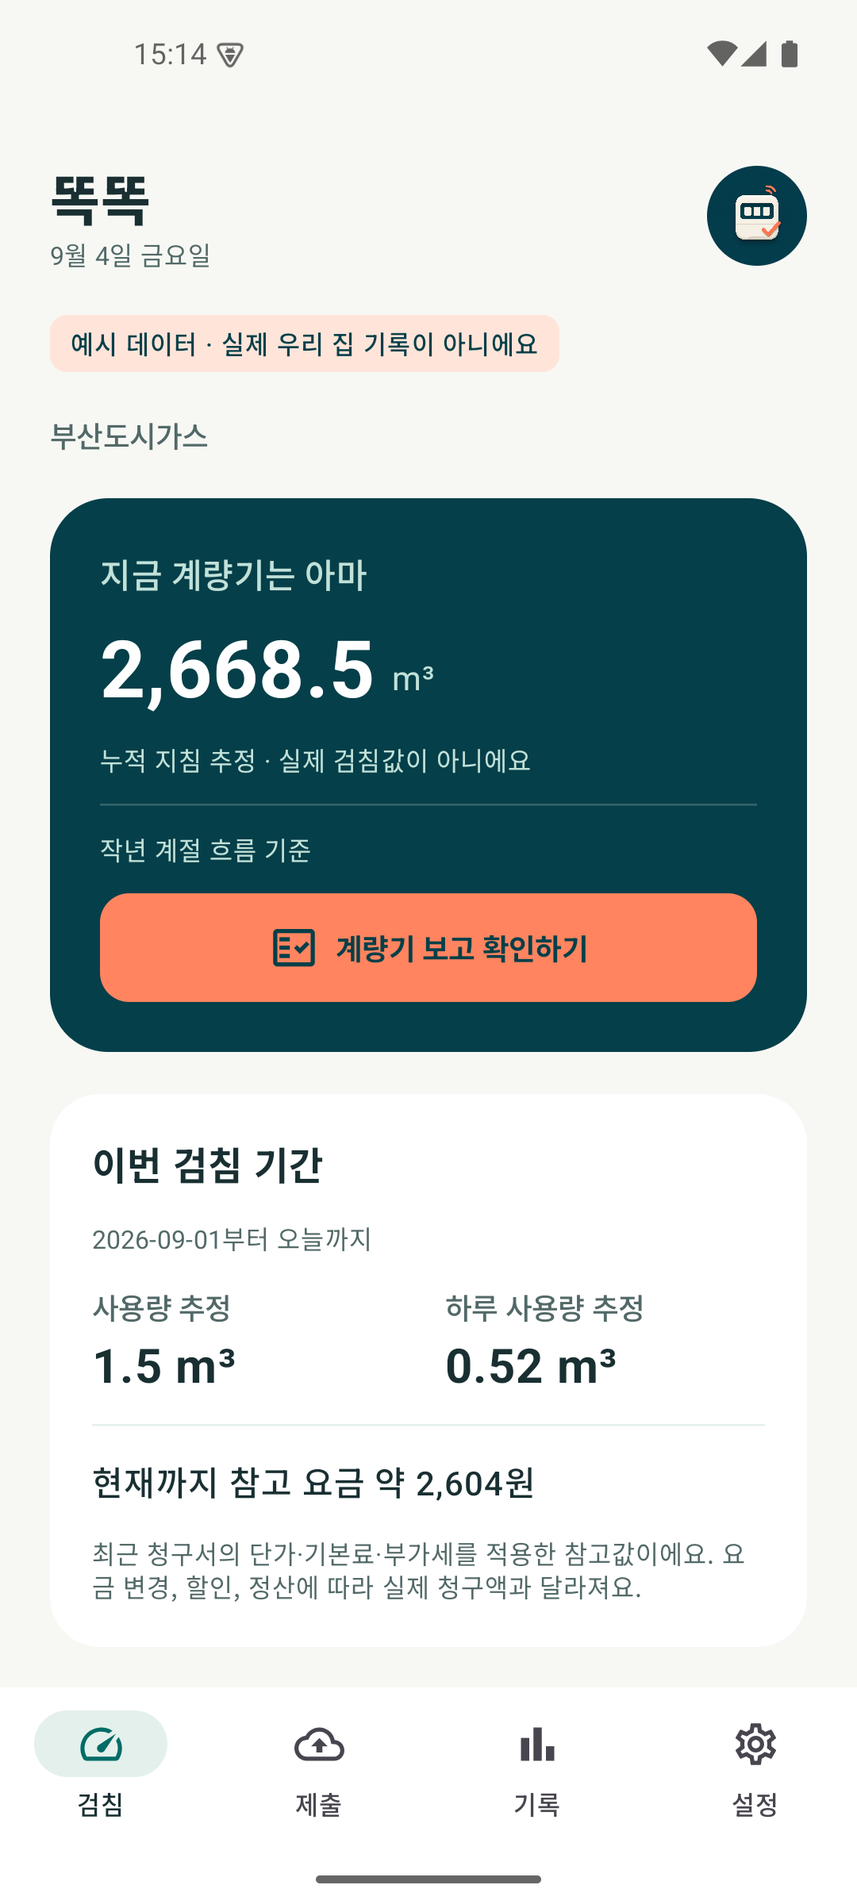
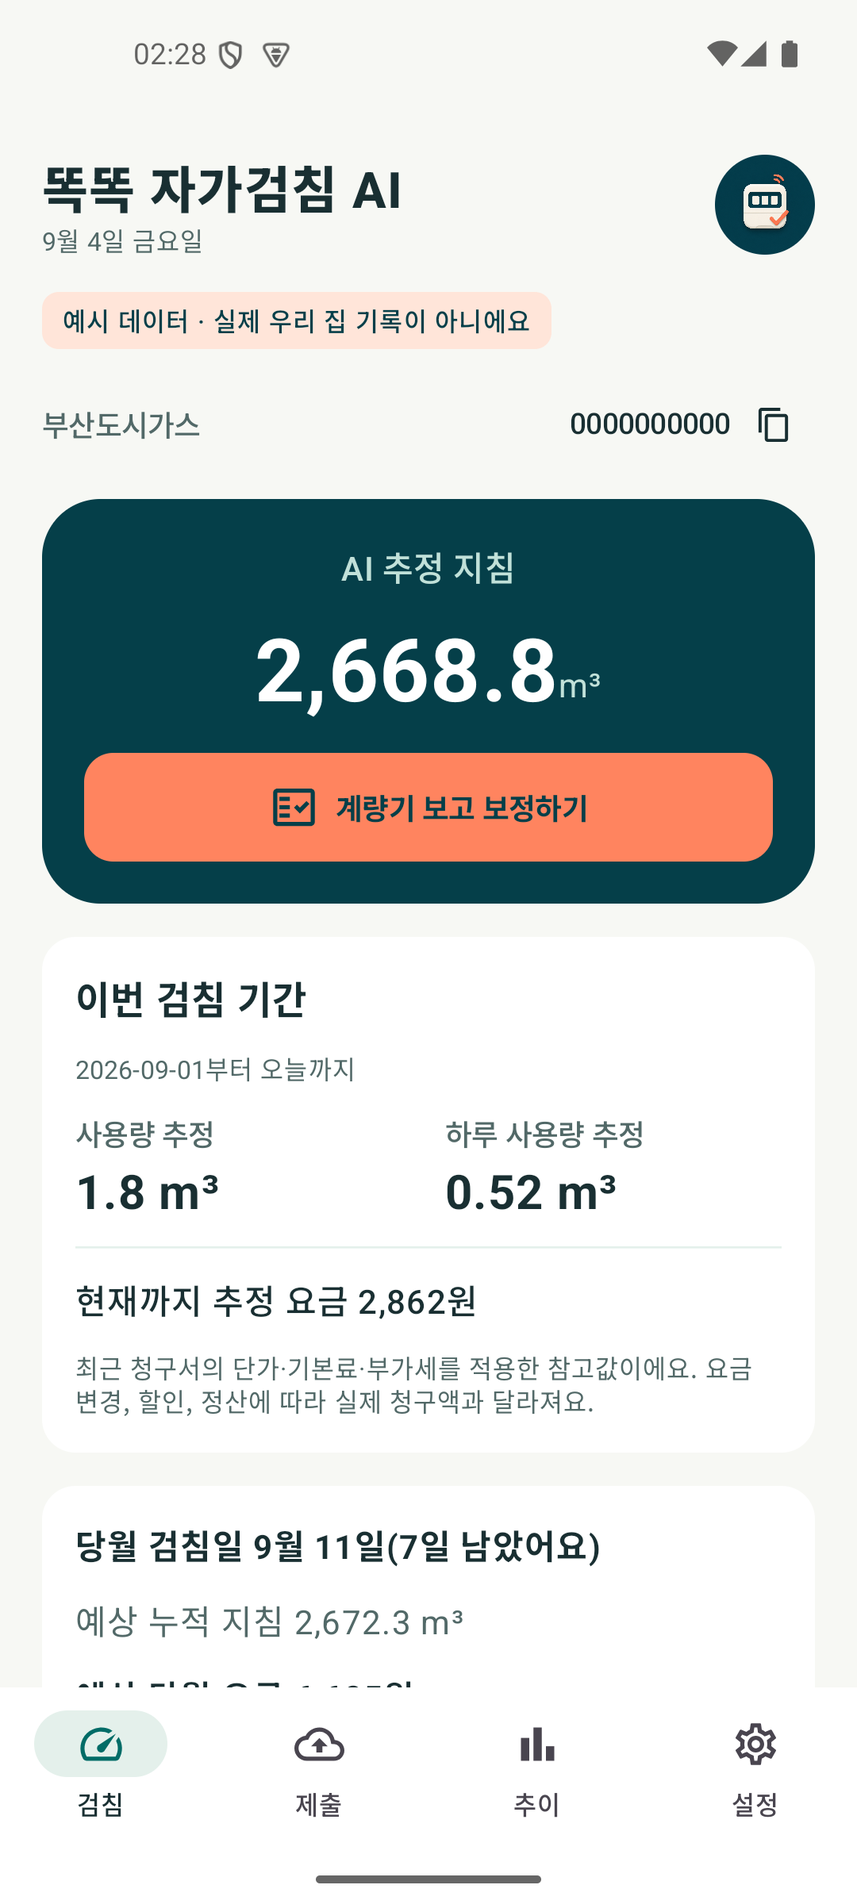
Finalize Gasapp safety checks and refresh 0.3.0 screenshots

diff --git a/app/src/main/java/dev/mahlernim/gasselfmeter/GasappBridge.kt b/app/src/main/java/dev/mahlernim/gasselfmeter/GasappBridge.kt
@@ -54,7 +54,30 @@ object GasappBridge {
         return data.copy(profile = data.profile.copy(providerId = providerId, contract = connection.account.key,
             customerNumber = connection.account.customer.ifBlank { connection.account.contract }, meter = meter,
             plannedDate = target.end, syncTime = now), periods = periods, ready = true, credentials = null,
-            cachedSelfRead = null, gasappConnection = connection, cachedGasappTarget = target, gasappBills = bills)
+            cachedSelfRead = null, gasappConnection = connection, cachedGasappTarget = target, gasappBills = bills, gasappMeterChangeObservedAt = replacementObservedAt(data, target, now))
+    }
+
+    fun replacementObservedAt(data: AppData, target: GasappTarget, now: Long): Long? {
+        val old = data.cachedGasappTarget
+        val changedMeter = target.meter != null && target.meter != data.profile.meter
+        val newlyFlagged = target.meterChanged && (old?.meterChanged != true || old.meter != target.meter)
+        return if (changedMeter || newlyFlagged) now else data.gasappMeterChangeObservedAt
+    }
+
+    private fun reconcileRecord(api: GasappApi, initial: AppData): SubmissionRecord? {
+        val expected = initial.cachedGasappTarget ?: return null
+        val record = initial.submissions.lastOrNull { it.cycle == expected.cycle && it.status in setOf("pending", "uncertain") } ?: return null
+        val connection = initial.gasappConnection ?: return null
+        if (expected.account.key != connection.account.key || expected.meter != initial.profile.meter) return null
+        val result = api.reconcile(connection.session, expected, record.value)
+        return record.takeIf { result.status == GasappSubmitStatus.CONFIRMED }
+    }
+
+    fun applyReconciliation(latest: AppData, initial: AppData, record: SubmissionRecord?): AppData {
+        if (record == null || !sameAccount(initial, latest)) return latest
+        val current = latest.submissions.lastOrNull { it.cycle == record.cycle }
+        if (current != record || current.status !in setOf("pending", "uncertain")) return latest
+        return latest.copy(submissions = latest.submissions.map { if (it == current) it.copy(status = "confirmed", detail = "공급사에서 제출 완료를 확인했어요.") else it })
     }
 
     fun refresh(context: Context, force: Boolean = false): AppData = SubmissionGate.lock.withLock {
@@ -64,7 +87,8 @@ object GasappBridge {
         if (!initial.ready || (!force && initial.profile.syncTime?.let { System.currentTimeMillis() - it < 86_400_000L } == true)) return@withLock initial
         GasappApi(connection.session.deviceId).use { api ->
             val snapshot = api.snapshot(connection.session, connection.account)
-            store.update { latest -> if (sameAccount(initial, latest)) merge(latest, connection, snapshot) else latest }.also {
+            val confirmed = reconcileRecord(api, initial)
+            store.update { latest -> if (sameAccount(initial, latest)) merge(applyReconciliation(latest, initial, confirmed), connection, snapshot) else latest }.also {
                 if (it.cachedGasappTarget?.submitted == true) context.getSystemService(android.app.NotificationManager::class.java).cancel(3)
             }
         }
@@ -76,7 +100,11 @@ object GasappBridge {
         val connection = initial.gasappConnection ?: error("가스앱에 다시 연결해 주세요.")
         GasappApi(connection.session.deviceId).use { api ->
             val target = api.target(connection.session, connection.account)
-            store.update { latest -> if (sameAccount(initial, latest)) latest.copy(cachedGasappTarget = target) else latest }
+            val confirmed = reconcileRecord(api, initial)
+            store.update { latest -> if (sameAccount(initial, latest)) applyReconciliation(latest, initial, confirmed).copy(
+                cachedGasappTarget = target, gasappMeterChangeObservedAt = replacementObservedAt(latest, target, System.currentTimeMillis())) else latest }.also {
+                if (it.cachedGasappTarget?.submitted == true) context.getSystemService(android.app.NotificationManager::class.java).cancel(3)
+            }
         }
     }
 
@@ -88,7 +116,7 @@ object GasappBridge {
             val target = api.target(connection.session, connection.account)
             val current = store.update { latest ->
                 check(sameAccount(initial, latest)) { "연결 계정이 변경됐어요. 다시 확인해 주세요." }
-                latest.copy(cachedGasappTarget = target)
+                latest.copy(cachedGasappTarget = target, gasappMeterChangeObservedAt = replacementObservedAt(latest, target, System.currentTimeMillis()))
             }
             val decision = GasappSubmissionPolicy.decide(current, target, automatic = automatic)
             require(decision.allowed && decision.value != null) { decision.reason }
@@ -134,7 +162,7 @@ object GasappSubmissionPolicy {
         if (automatic && !data.submissionSettings.automatic) return deny("자가검침 자동제출이 꺼져 있어요.")
         if (target == null) return deny("검침 기간을 먼저 확인해 주세요.")
         if (target.account.key != connection.account.key || data.profile.contract != target.account.key) return deny("계약 정보가 달라요. 다시 연결해 주세요.")
-        if (target.meter == null || target.meter != data.profile.meter || target.meterChanged) return deny("계량기 정보를 갱신하고 실제 숫자를 다시 확인해 주세요.")
+        if (target.meter == null || target.meter != data.profile.meter) return deny("계량기 정보를 갱신하고 실제 숫자를 다시 확인해 주세요.")
         if (!target.registered) return deny("자가검침 서비스 신청이 필요해요.")
         if (target.needsChannelChange) return deny("가스앱 검침으로 변경이 필요해요.")
         if (target.submitted) return deny("이번 검침값은 이미 제출했어요.")
@@ -146,6 +174,8 @@ object GasappSubmissionPolicy {
         if (prior?.status in setOf("pending", "uncertain", "confirmed")) return deny("이전 전송 결과를 공급사에서 확인해 주세요.")
         val observation = data.observations.lastOrNull { it.meter == data.profile.meter && it.time <= time }
             ?: return deny("실제 계량기 숫자를 먼저 확인해 주세요.")
+        if (target.meterChanged && (data.gasappMeterChangeObservedAt == null || observation.time <= data.gasappMeterChangeObservedAt))
+            return deny("교체된 계량기의 실제 숫자를 다시 확인해 주세요.")
         val age = ((time - observation.time) / 86_400_000L).coerceAtLeast(0)
         if (automatic && data.submissionSettings.requireRecentCheck && age > data.submissionSettings.recentDays) return deny("보정한 지 오래됐어요. 실제 숫자를 다시 확인해 주세요.")
         val estimate = Estimator.estimate(data, time).reading ?: return deny("제출할 지침을 계산할 수 없어요.")

diff --git a/app/src/test/java/dev/mahlernim/gasselfmeter/GasappIntegrationTest.kt b/app/src/test/java/dev/mahlernim/gasselfmeter/GasappIntegrationTest.kt
@@ -56,4 +56,24 @@ class GasappIntegrationTest {
         val pending = SubmissionRecord(target.cycle, target.start!!, target.end!!, 113.0, time, "uncertain", "")
         assertFalse(GasappSubmissionPolicy.decide(calibrated.copy(submissions = listOf(pending)), target, time, automatic = false).allowed)
     }
+
+    @Test fun replacementRequiresCalibrationAfterFirstObservedChangeAndDoesNotResetOnRefresh() {
+        val time = dayStart(LocalDate.of(2026, 9, 7))
+        val changed = target.copy(meterChanged = true)
+        val base = data().copy(cachedGasappTarget = changed, gasappMeterChangeObservedAt = time - 1000,
+            observations = listOf(Observation(time - 86_400_000, 111.0, meter), Observation(time, 113.0, meter)))
+        assertEquals(time - 1000, GasappBridge.replacementObservedAt(base, changed, time + 1000))
+        assertTrue(GasappSubmissionPolicy.decide(base, changed, time, automatic = false).allowed)
+        assertFalse(GasappSubmissionPolicy.decide(base.copy(gasappMeterChangeObservedAt = time), changed, time, automatic = false).allowed)
+    }
+
+    @Test fun reconciliationCannotResurrectRemovedOrReplacedAttempt() {
+        val record = SubmissionRecord(target.cycle, target.start!!, target.end!!, 113.0, 1234L, "uncertain", "")
+        val initial = data().copy(submissions = listOf(record))
+        assertEquals("confirmed", GasappBridge.applyReconciliation(initial, initial, record).submissions.single().status)
+        val removed = initial.copy(submissions = emptyList())
+        assertTrue(GasappBridge.applyReconciliation(removed, initial, record).submissions.isEmpty())
+        val reset = AppData()
+        assertEquals(reset, GasappBridge.applyReconciliation(reset, initial, record))
+    }
 }

diff --git a/app/src/androidTest/java/dev/mahlernim/gasselfmeter/AppFlowTest.kt b/app/src/androidTest/java/dev/mahlernim/gasselfmeter/AppFlowTest.kt
@@ -41,7 +41,7 @@ class AppFlowTest {
             shot("03-submission")
             compose.onAllNodes(isToggleable())[0].performScrollTo().performClick()
             compose.onNodeWithText("7일 이내").performScrollTo().assertIsDisplayed()
-            compose.onNodeWithText("분").performScrollTo().assertIsDisplayed()
+            compose.onNodeWithText("한국 시간 기준 · 공급사에서 제출 완료를 확인하면 알림을 멈춰요.").performScrollTo().assertIsDisplayed()
             shot("07-submission-alerts")
             compose.onNodeWithText("검침", useUnmergedTree = true).performClick()
             compose.onNodeWithText("계량기 보고 보정하기").performClick()
@@ -70,10 +70,11 @@ class AppFlowTest {
             assertEquals(saved, SecureStore(context).read())
             compose.onNodeWithText("설정", useUnmergedTree = true).performClick()
             compose.onNodeWithText("앱 설정").assertIsDisplayed()
-            compose.onNodeWithText("3회").performScrollTo().performClick()
+            compose.onNodeWithText("3회").performScrollTo().assertIsDisplayed()
+            shot("05-settings")
+            compose.onNodeWithText("3회").performClick()
             compose.onNodeWithText("6회").performClick()
             compose.waitUntil(5000) { SecureStore(context).read().profile.reminderRepeatCount == 6 }
-            shot("05-settings")
             compose.onNodeWithText("업데이트 확인").performScrollTo().assertIsDisplayed()
             compose.onNodeWithText("Google Play에서 최신 버전을 확인해요").assertIsDisplayed()
             shot("06-settings-links")

diff --git a/app/src/main/java/dev/mahlernim/gasselfmeter/MainActivity.kt b/app/src/main/java/dev/mahlernim/gasselfmeter/MainActivity.kt
@@ -201,9 +201,13 @@ class MainActivity : ComponentActivity() {
         if (vm.calibrate(value)) calibration = null
     } }
     submitValue?.let { value ->
+        val provider = Providers.get(data.profile.providerId)
+        val valueText = decimalText(value, if (provider.gasapp) 0 else 1)
         AlertDialog(onDismissRequest = { submitValue = null }, title = { Text("검침값을 공급사에 입력할까요?") },
-            text = { Text("${Providers.get(data.profile.providerId).name}에 ${decimalText(value)} m³를 입력합니다. 전송 직전에 기간과 기존 제출 여부를 다시 확인하며, 결과가 불확실하면 자동으로 다시 보내지 않습니다.") },
-            confirmButton = { TextButton(onClick = { vm.submitReading(value); submitValue = null }) { Text("${decimalText(value)} m³ 입력") } },
+            text = { Text("${provider.name}에 $valueText m³를 입력합니다." +
+                (if (provider.gasapp) "\n\n가스앱은 소수점 아래를 제외한 정수 지침을 제출해요." else "") +
+                "\n\n전송 직전에 기간과 기존 제출 여부를 다시 확인하며, 결과가 불확실하면 자동으로 다시 보내지 않습니다.") },
+            confirmButton = { TextButton(onClick = { vm.submitReading(value); submitValue = null }) { Text("$valueText m³ 입력") } },
             dismissButton = { TextButton(onClick = { submitValue = null }) { Text("취소") } })
     }
     if (addHistory) HistoryDialog({ addHistory = false }) { start, end, value ->

diff --git a/app/src/androidTest/java/dev/mahlernim/gasselfmeter/ManualAndBackupFlowTest.kt b/app/src/androidTest/java/dev/mahlernim/gasselfmeter/ManualAndBackupFlowTest.kt
@@ -45,6 +45,10 @@ class ManualAndBackupFlowTest {
             compose.onNodeWithText("기록 내보내기").performScrollTo().performClick()
             compose.waitForIdle()
             device.waitForIdle()
+            val filename = "gas-test-${System.currentTimeMillis()}.json"
+            val filenameInput = device.wait(Until.findObject(By.res("android:id/title").clazz("android.widget.EditText")), 5000)
+            assertNotNull("System document picker filename field", filenameInput)
+            filenameInput.text = filename
             val save = device.wait(Until.findObject(By.res("android:id/button1")), 5000)
             device.dumpWindowHierarchy(java.io.File(context.filesDir, "picker.xml"))
             assertNotNull("System document picker Save button", save)
@@ -53,7 +57,6 @@ class ManualAndBackupFlowTest {
             compose.waitForIdle()
             scenario.onActivity { activity -> androidx.lifecycle.ViewModelProvider(activity)[GasViewModel::class.java].message = null }
             compose.onNodeWithText("백업 가져오기").performScrollTo().performClick()
-            val filename = "gas-self-meter-${today()}.json"
             val file = device.wait(Until.findObject(By.text(filename)), 5000)
             assertNotNull("Exported backup should appear in the system picker", file)
             file.click()

diff --git a/app/src/main/java/dev/mahlernim/gasselfmeter/Providers.kt b/app/src/main/java/dev/mahlernim/gasselfmeter/Providers.kt
@@ -38,6 +38,10 @@ object Providers {
         Provider("cncity", "CNCITY에너지", listOf("대전", "충남"), "https://www.cncityenergy.com/"),
         Provider("daesung", "대성에너지", listOf("대구", "경북"), "https://www.daesungenergy.com/"),
         Provider("haeyang", "해양에너지", listOf("광주", "전남"), "https://www.hyenergy.co.kr/"),
+        Provider("chambit", "참빛도시가스", listOf("강원", "충북"), "https://www.gasapp.co.kr/", automatic = true, gasapp = true, automaticSubmission = true),
+        Provider("mcenergy", "MC에너지", listOf("전남"), "https://www.gasapp.co.kr/", automatic = true, gasapp = true, automaticSubmission = true),
+        Provider("seohae", "미래엔서해에너지", listOf("충남"), "https://www.gasapp.co.kr/", automatic = true, gasapp = true, automaticSubmission = true),
+        Provider("daehwa", "대화도시가스", listOf("전남"), "https://www.gasapp.co.kr/", automatic = true, gasapp = true, automaticSubmission = true),
         Provider("other", "다른 공급사 / 직접 입력", listOf("전국"), "https://www.kogas.or.kr/site/koGas/1020408040000"),
     )
     val regions = listOf("부산", "서울", "경기", "인천", "울산", "경남", "대구", "경북", "대전", "세종", "충남", "충북", "광주", "전남", "전북", "강원", "제주")

diff --git a/app/src/main/java/dev/mahlernim/gasselfmeter/GasViewModel.kt b/app/src/main/java/dev/mahlernim/gasselfmeter/GasViewModel.kt
@@ -46,7 +46,8 @@ class GasViewModel(app: Application) : AndroidViewModel(app) {
             submissions = if (next.submissions == before.submissions) latest.submissions else next.submissions,
             cachedSelfRead = if (next.cachedSelfRead == before.cachedSelfRead) latest.cachedSelfRead else next.cachedSelfRead,
             gasappBills = if (next.gasappBills == before.gasappBills) latest.gasappBills else next.gasappBills,
-            cachedGasappTarget = if (next.cachedGasappTarget == before.cachedGasappTarget) latest.cachedGasappTarget else next.cachedGasappTarget)
+            cachedGasappTarget = if (next.cachedGasappTarget == before.cachedGasappTarget) latest.cachedGasappTarget else next.cachedGasappTarget,
+            gasappMeterChangeObservedAt = if (next.gasappMeterChangeObservedAt == before.gasappMeterChangeObservedAt) latest.gasappMeterChangeObservedAt else next.gasappMeterChangeObservedAt)
         }
         selfReadTarget = data.cachedSelfRead
     }

diff --git a/app/src/main/java/dev/mahlernim/gasselfmeter/GasappCodec.kt b/app/src/main/java/dev/mahlernim/gasselfmeter/GasappCodec.kt
@@ -25,6 +25,7 @@ object GasappCodec {
         json.put("gasappBills", JSONArray().apply { data.gasappBills.forEach { b -> put(JSONObject()
             .put("month", b.month).put("usage", b.usage).put("amount", b.amount).put("start", b.start).put("end", b.end)) } })
         if (!secrets) return
+        json.put("gasappMeterChangeObservedAt", data.gasappMeterChangeObservedAt)
         data.gasappConnection?.let { c -> json.put("gasappConnection", JSONObject().put("account", account(c.account))
             .put("token", c.session.token).put("member", c.session.member).put("deviceId", c.session.deviceId)) }
         data.cachedGasappTarget?.let { t -> json.put("cachedGasappTarget", JSONObject().put("account", account(t.account))

diff --git a/app/src/main/java/dev/mahlernim/gasselfmeter/Storage.kt b/app/src/main/java/dev/mahlernim/gasselfmeter/Storage.kt
@@ -124,7 +124,8 @@ object DataCodec {
                 t.optString("planned"), t.optString("vLdo"), t.optString("installation"))
         } else null
         return AppData(profile, periods, observations, credentials, settings, submissions, json.optBoolean("ready", true), cached,
-            GasappCodec.connection(json, allowCredentials), GasappCodec.target(json, allowCredentials), GasappCodec.bills(json))
+            GasappCodec.connection(json, allowCredentials), GasappCodec.target(json, allowCredentials), GasappCodec.bills(json),
+            if (allowCredentials && !json.isNull("gasappMeterChangeObservedAt")) json.getLong("gasappMeterChangeObservedAt") else null)
     }
 }
 

diff --git a/app/src/main/java/dev/mahlernim/gasselfmeter/Model.kt b/app/src/main/java/dev/mahlernim/gasselfmeter/Model.kt
@@ -63,6 +63,7 @@ data class AppData(
     val gasappConnection: GasappConnection? = null,
     val cachedGasappTarget: GasappTarget? = null,
     val gasappBills: List<GasappBill> = emptyList(),
+    val gasappMeterChangeObservedAt: Long? = null,
 )
 data class Estimate(val reading: Double?, val daily: Double?, val source: String, val ageDays: Long?, val anchorTime: Long?)
 data class SubmissionDecision(val allowed: Boolean, val value: Double?, val reason: String)

diff --git a/README.md b/README.md
@@ -64,12 +64,12 @@
 | --- | --- | --- | --- |
 | 부산도시가스 | 지원 | 지원 | 지원 |
 | 코원·충청·영남 구미·포항·전남·강원·전북에너지서비스 | 지원 | 지원 | 공급사별 검증 전까지 미지원 |
-| 서울도시가스, 예스코, 인천도시가스 등 가스앱 공급사 | 직접 입력 | 미지원 | 미지원 |
+| 서울·예스코·인천 등 가스앱 14개 공급사 | 본인인증 후 지원 | 지원 | 조건부 지원 |
 | 그 밖의 공급사 | 직접 입력 | 미지원 | 미지원 |
 
 목록에 없는 공급사는 `다른 공급사 / 직접 입력`으로 시작할 수 있습니다. 여기서 직접 입력은 청구서의 사용량을 앱에 손으로 기록한다는 뜻이며 공급사 제출 기능을 뜻하지 않습니다. 이 방식에서도 사용량 추정, 실측 기록과 주간 알림을 사용할 수 있습니다. 공급사 사이트가 변경되면 자동 연결 기능도 업데이트가 필요할 수 있습니다.
 
-현재 실제 계정으로 청구 이력 조회가 확인된 공급사는 부산도시가스입니다. 다른 SK E&S 지역 공급사는 공통 포털 구조와 공급사별 연결 주소를 확인했지만, 모든 계약에서 같은 결과를 보장하지는 않습니다. 자가검침값 제출 기능은 실제 제출 검증을 진행 중입니다.
+현재 실제 계정으로 청구 이력 조회가 확인된 공급사는 부산도시가스입니다. 다른 SK E&S 지역 공급사는 공통 포털 구조와 공급사별 연결 주소를 확인했지만, 모든 계약에서 같은 결과를 보장하지는 않습니다. 가스앱 연결은 본인인증, 계약 조회와 제출 흐름을 구현하고 합성 응답으로 검증했습니다. 실제 계정 인증과 검침값 제출 검증은 사용자가 진행해야 합니다. [연결 범위와 검증 내용](docs/GASAPP.md)을 참고하세요.
 
 ## 추정값과 참고 요금은 어디까지 믿을 수 있나요
 
@@ -86,7 +86,7 @@
 - 광고, 사용자 추적과 자동 오류 보고 기능이 없습니다.
 - 위치, 연락처, 카메라와 마이크 권한을 요청하지 않습니다.
 - 로그인 정보는 사용자가 선택한 경우에만 기기에 암호화해 저장합니다.
-- 내보낸 백업에는 아이디와 비밀번호가 들어가지 않습니다.
+- 내보낸 백업에는 아이디, 비밀번호와 가스앱 인증 토큰이 들어가지 않습니다.
 
 이 앱은 도시가스 공급사가 만든 공식 앱이 아닙니다. 자세한 저장 항목과 삭제 방법은 [개인정보 안내](PRIVACY.md)에서 확인할 수 있습니다.
 
@@ -106,7 +106,8 @@
 <img src="docs/images/01-welcome.png" width="220" alt="지역과 공급사를 고르는 첫 화면">
 <img src="docs/images/02-meter.png" width="220" alt="누적 지침과 사용량을 확인하는 검침 화면">
 <img src="docs/images/03-submission.png" width="220" alt="검침값 직접 제출과 마지막 날 자동 제출 설정 화면">
-<img src="docs/images/04-history.png" width="220" alt="월별 사용 흐름과 실측 기록 화면">
+<img src="docs/images/04-history.png" width="220" alt="최근 13개월 사용 추이 화면">
+<img src="docs/images/05-settings.png" width="220" alt="보정 알림과 다음 날 재알림 설정 화면">
 </p>
 
 ## 테스트 참여하기

diff --git a/docs/VALIDATION.md b/docs/VALIDATION.md
@@ -1,5 +1,16 @@
 # First-release validation
 
+## 0.3.0 통합 검증
+
+- 2026년 9월 4일 Windows JDK 21과 Android API 35 에뮬레이터에서 검증했습니다.
+- 단위 테스트와 Android lint가 통과했습니다. 보정 재알림 0~6회, 공급사 제출 상태 반영, 마지막 날 안내, 정보 갱신과 제출 분리, 세션 없는 백업, 계정·계량기 변경 차단을 포함합니다.
+- Gasapp HTTP 합성 응답 테스트에서 제출 전 대상 변경 차단, 정수 지침, 응답 손실 후 조회 확인과 POST 재시도 금지를 확인했습니다.
+- 에뮬레이터의 검침·보정·추이·설정 흐름, 시스템 파일 선택기를 통한 백업 내보내기와 복원, 실제 SMS 없는 Gasapp 인증 화면 진입 및 취소의 3개 흐름이 통과했습니다.
+- README와 Play 소개용 이미지는 가상 데이터로 촬영했습니다. 계약자번호 0000000000은 데모 번호입니다.
+- 실제 고객 계정의 SMS 인증이나 공급사 검침값 전송은 실행하지 않았습니다. 실제 계정 검증 완료를 의미하지 않습니다.
+- Android 절전 및 네트워크 상황에 따라 WorkManager 작업은 지정 시각보다 늦어질 수 있습니다.
+
+
 ## 0.2.3 제출 안전 검사 보완
 
 - 제출 직전 조회한 계약과 계량기가 기기에 저장된 대상과 다르면 직접 입력과 자동 입력을 모두 차단합니다.
